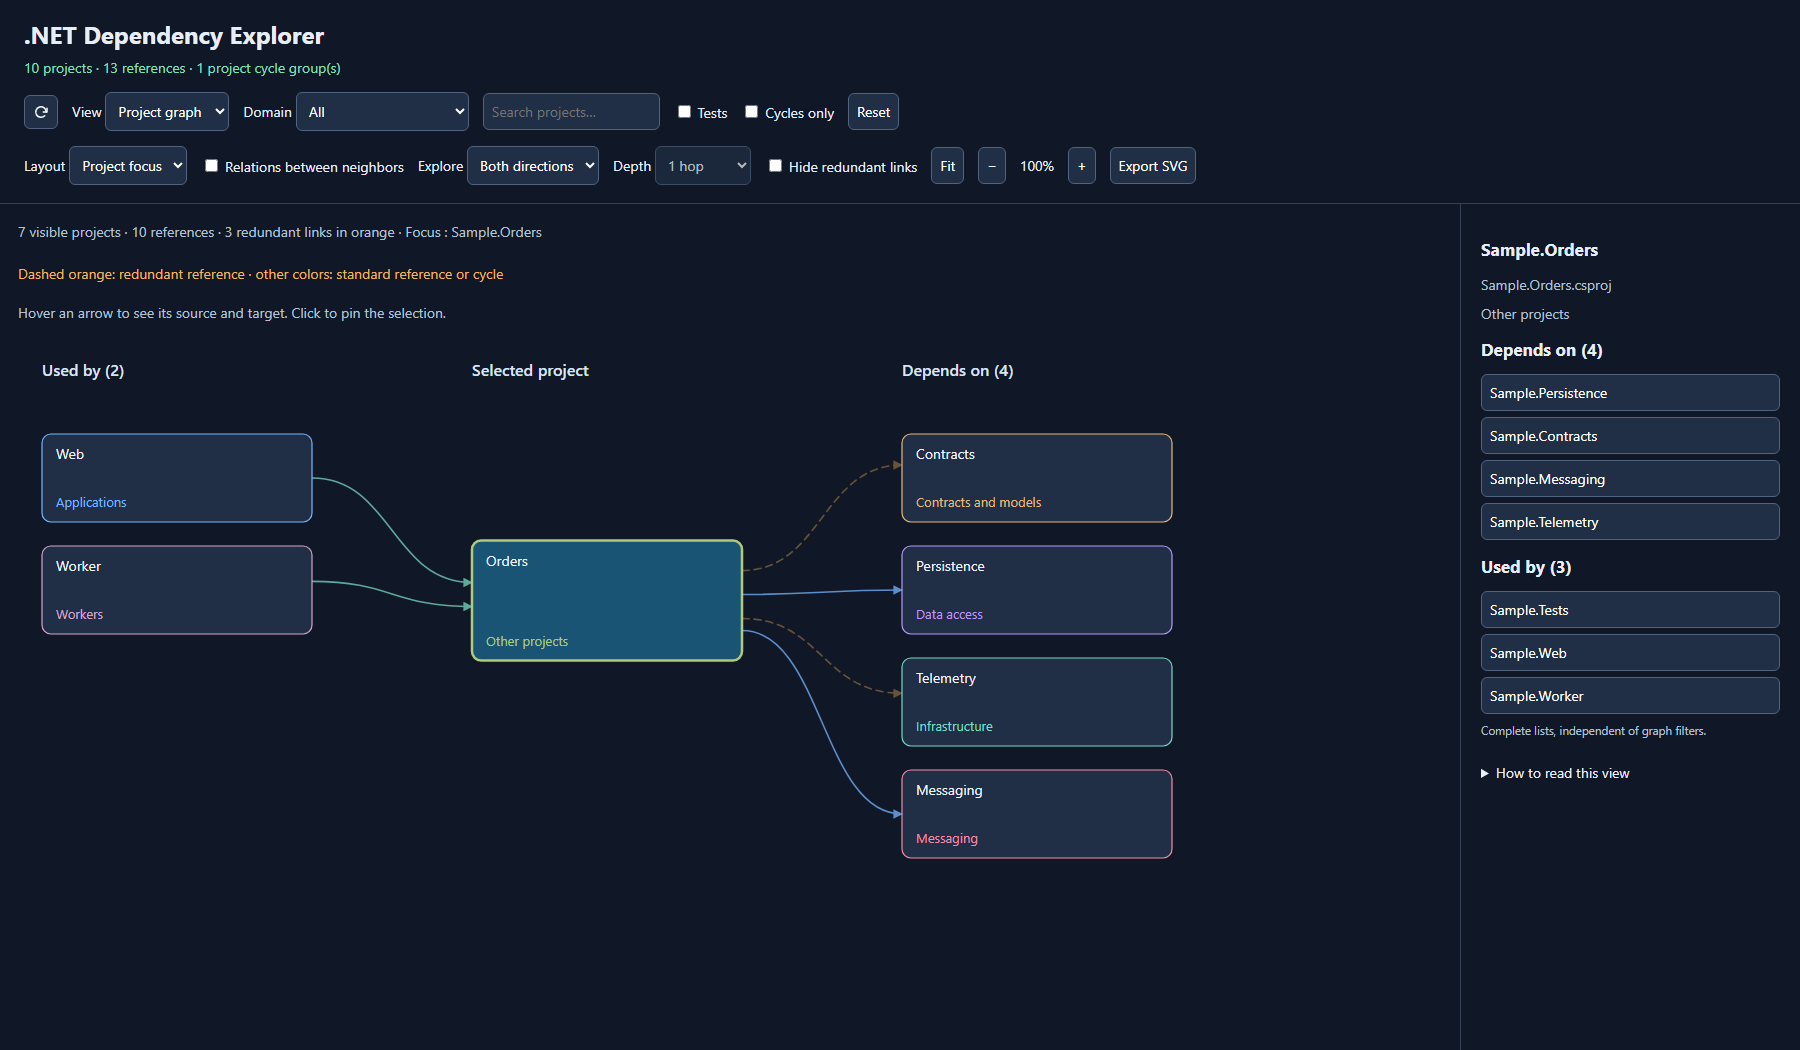
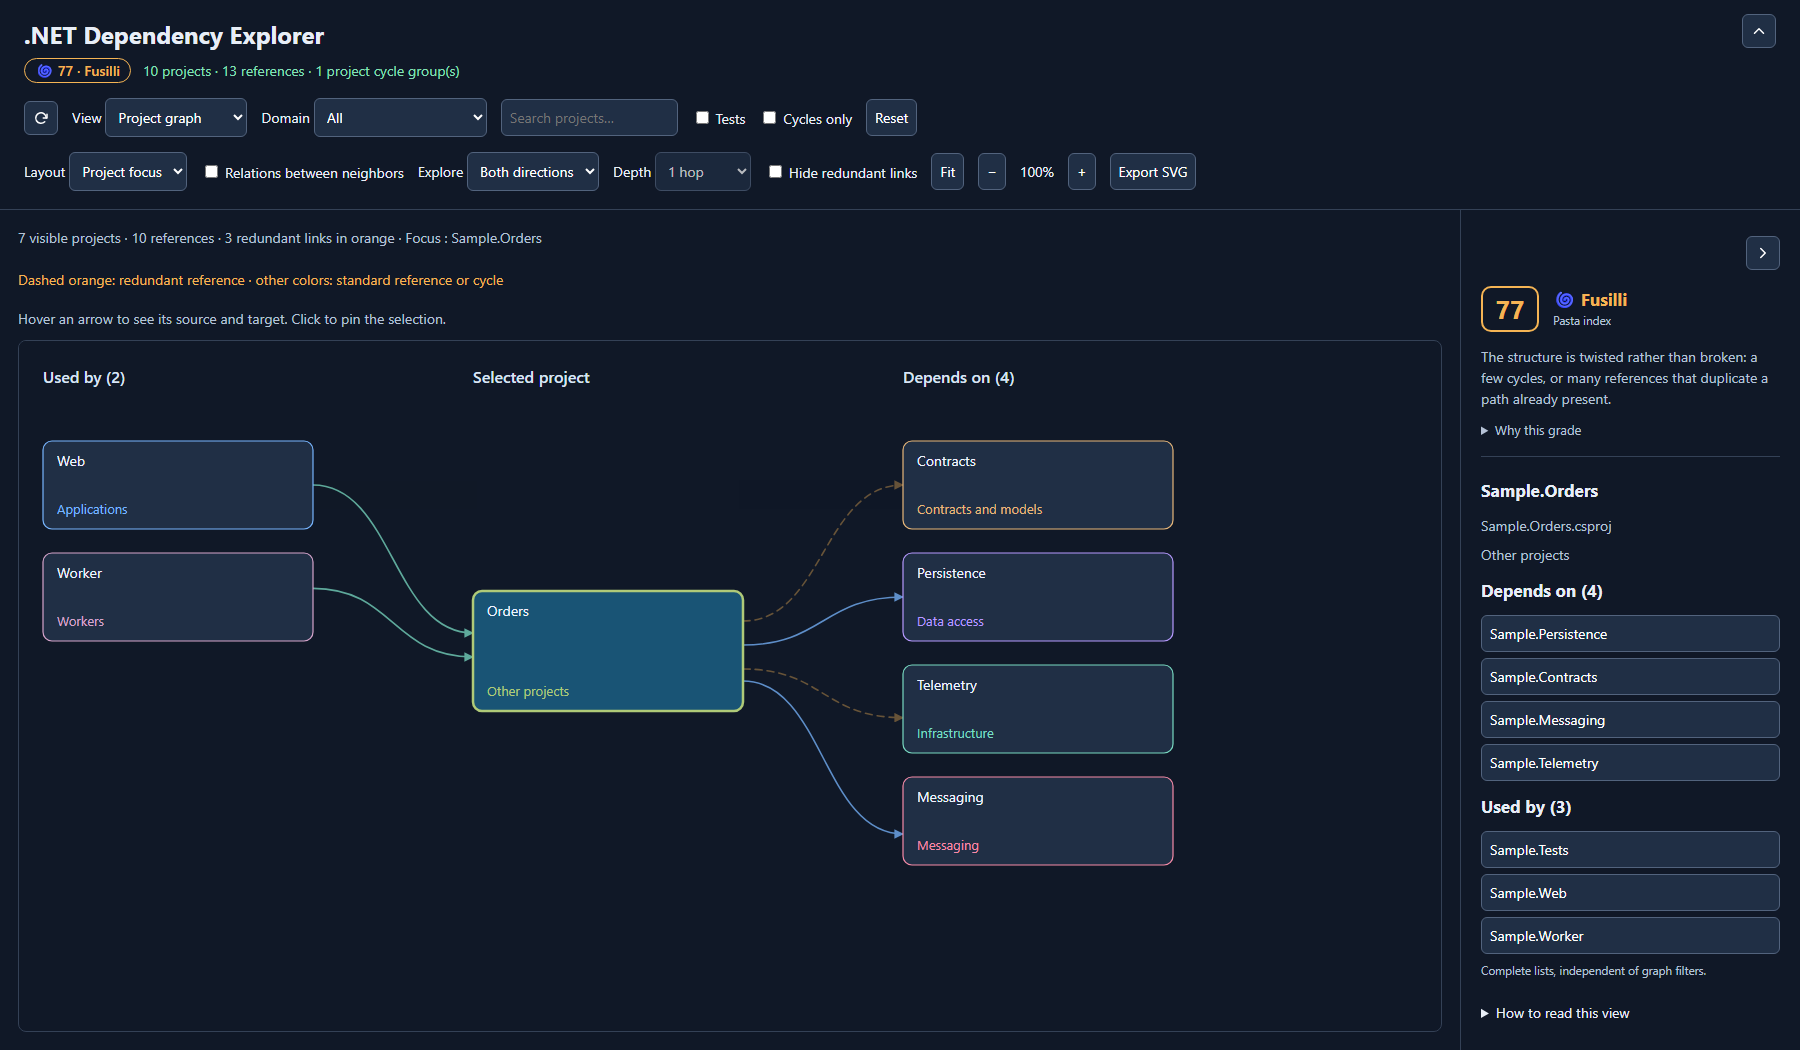
Refresh the listing screenshots, and fix what they exposed
The two screenshots on the listing dated from 0.1.4: no index, no collapsible
panels, no canvas view. They are regenerated from the demo page, which is the
real webview over fictional projects, and two views that had no image at all
get one: the pasta scale and the Cytoscape canvas.

Rendering the side panel at its real width exposed two defects the code review
had missed. The score tile inherited aside button{width:100%} and stretched
across the panel, wrapping its own label. And the index had pushed the project
dependency lists off the bottom of the panel: now that the scale overlay owns
the full breakdown, the panel keeps the score, the shape and one sentence, and
folds the rest behind a summary.

The moves also listed both directions of a two-project cycle as separate
options worth the same points. One cycle group is one decision, so only its
best edge is kept.

diff --git a/media/explorer.js b/media/explorer.js
@@ -17,7 +17,7 @@ style.textContent = `.icon-button{display:inline-flex;align-items:center;justify
 style.textContent+="#canvas:has(#graph){display:flex;flex-direction:column;overflow:hidden;cursor:auto}#content:has(#graph){display:flex;flex-direction:column;flex:1;min-height:0;overflow:hidden}#content:has(#graph)>p,#content:has(#graph)>button{flex-shrink:0}#graphViewport{position:relative;isolation:isolate;contain:paint;overflow:auto;flex:1;min-height:100px;border:1px solid #344156;border-radius:8px;cursor:grab;background:#101827}#graphViewport #graph{position:relative}#edgeInfo{position:static!important;z-index:auto!important} ";
 style.textContent+="#detailsBar{text-align:right;margin-bottom:4px}main.narrow{grid-template-columns:minmax(0,1fr) 44px}main.narrow aside{padding:12px 5px}main.narrow aside>*:not(#detailsBar){display:none}main.narrow #detailsBar{text-align:center;margin:0}#toggleDetails svg{transition:transform .15s;transform:rotate(90deg)}main.narrow #toggleDetails svg{transform:rotate(-90deg)}";
 style.textContent+="#scale{position:fixed;inset:0;z-index:10;display:flex;align-items:flex-start;justify-content:center;padding:36px 20px;overflow:auto;background:rgba(9,14,24,.74)}#scale[hidden]{display:none}#scaleCard{position:relative;width:min(760px,100%);padding:26px 30px 24px;border:1px solid #52637d;border-radius:12px;background:#16233a}#scaleClose{position:absolute;top:13px;right:13px;width:32px;height:32px;padding:0;font-size:17px;line-height:1}#gauge{position:relative;height:8px;margin:18px 0 6px;border-radius:999px;background:#202f45}#gaugeMark{position:absolute;top:-4px;width:4px;height:16px;border-radius:2px;background:currentColor}.rung{display:grid;grid-template-columns:130px 1fr auto;gap:14px;align-items:baseline;padding:9px 10px;border-radius:8px}.rung.current{background:#1d2e47;outline:1px solid var(--color)}.rung b{color:var(--color)}.rung small{color:#b5c2d6;line-height:1.4}.rung .measured{text-align:right}.move{display:grid;grid-template-columns:1fr auto;gap:16px;align-items:baseline;padding:11px 10px;border-top:1px solid #344156}.move strong{display:block}.move small,.move div small{color:#b5c2d6}.gain{color:#83e0b7;font-size:17px;font-weight:700;text-align:right}#scaleCard h2{font-size:12px;margin:22px 0 8px;color:#b5c2d6;text-transform:uppercase;letter-spacing:.05em}";
-style.textContent+="#pastaBadge{display:inline-block;margin-right:12px;padding:2px 10px;border:1px solid;border-radius:999px;font:inherit;font-weight:600;background:none;cursor:pointer}#architecture{margin-bottom:22px;padding-bottom:18px;border-bottom:1px solid #344156}.pasta{display:flex;align-items:center;gap:14px}.pastaScore{min-width:58px;padding:7px 0;border:2px solid;border-radius:10px;text-align:center;font-size:25px;font-weight:700;line-height:1.1;background:none}button.pastaScore{cursor:pointer}.pasta strong{display:block;font-size:17px}.pasta small{color:#b5c2d6}#architecture h2{font-size:12px;margin:17px 0 6px;color:#b5c2d6;text-transform:uppercase;letter-spacing:.05em}#architecture ul{margin:0;padding-left:18px}#architecture li{margin:5px 0;line-height:1.45}#architecture li b{color:#f5b454}#architecture>small{display:block;margin-top:14px;line-height:1.45}";
+style.textContent+="#pastaBadge{display:inline-block;margin-right:12px;padding:2px 10px;border:1px solid;border-radius:999px;font:inherit;font-weight:600;background:none;cursor:pointer}#architecture{margin-bottom:22px;padding-bottom:18px;border-bottom:1px solid #344156}.pasta{display:flex;align-items:center;gap:14px}.pastaScore{flex:none;width:auto;min-width:58px;padding:7px 12px;border:2px solid;border-radius:10px;text-align:center;font-size:25px;font-weight:700;line-height:1.1;background:none}button.pastaScore{cursor:pointer}.pasta div{min-width:0}#whyGrade{margin:12px 0 0}#whyGrade summary{color:#b5c2d6;font-size:13px}.pasta strong{display:block;font-size:17px}.pasta small{color:#b5c2d6}#architecture h2{font-size:12px;margin:17px 0 6px;color:#b5c2d6;text-transform:uppercase;letter-spacing:.05em}#architecture ul{margin:0;padding-left:18px}#architecture li{margin:5px 0;line-height:1.45}#architecture li b{color:#f5b454}#architecture>small{display:block;margin-top:14px;line-height:1.45}";
 style.textContent+="header{position:relative}#toggleControls{position:absolute;top:14px;right:24px}#toggleControls svg{transition:transform .15s}header.collapsed{padding:8px 24px}header.collapsed h1{display:none}header.collapsed #controls{display:none}header.collapsed #status{padding-right:44px}header.collapsed #toggleControls{top:5px}header.collapsed #toggleControls svg{transform:rotate(180deg)}";
 document.head.append(style);
 for (const d of domains) {const o=document.createElement('option');o.value=d;o.textContent=d;$('domain').append(o);}
@@ -94,21 +94,23 @@ function architecture(){
     text('strong',`${m.shape.emoji} ${m.shape.name}`,title).style.color=m.shape.color;
     text('small','Pasta index',title);
     text('p',m.shape.summary,box);
+    const why=text('details','',box);why.id='whyGrade';
+    text('summary','Why this grade',why);
     if(m.drivers.length){
-        text('h2','What costs you points',box);
-        const list=text('ul','',box);
+        text('h2','What costs you points',why);
+        const list=text('ul','',why);
         for(const driver of m.drivers){const item=text('li',driver.label,list);text('b',` −${Math.round(driver.cost)}`,item);}
-    }else if(m.graded)text('p','Nothing measurable is holding the score down.',box);
-    text('h2','Next step',box);text('p',m.shape.advice,box);
+    }else if(m.graded)text('p','Nothing measurable is holding the score down.',why);
+    text('h2','Next step',why);text('p',m.shape.advice,why);
     if(m.graded){
-        text('h2','Shape',box);
-        const facts=text('ul','',box);
+        text('h2','Shape',why);
+        const facts=text('ul','',why);
         text('li',`Propagation cost ${percent(m.propagationCost)}: the share of the solution an average change can reach.`,facts);
         text('li',`${m.depth} dependency layer${m.depth>1?'s':''} deep.`,facts);
         if(m.modular)text('li',`Modularity ${m.modularity.toFixed(2)} against the declared domains: above 0.30 the domains are structural, at or below 0 the references ignore them.`,facts);
         if(m.hub)text('li',`Most referenced: ${m.hub}, used by ${percent(m.hubShare)} of the others.`,facts);
     }
-    text('small',`Graded on ${m.projects} production project${m.projects>1?'s':''} across the whole workspace: test projects and the filters above are excluded. Project references only, so coupling through dependency injection, reflection or a shared database stays invisible.`,box);
+    text('small',`Graded on ${m.projects} production project${m.projects>1?'s':''} across the whole workspace: test projects and the filters above are excluded. Project references only, so coupling through dependency injection, reflection or a shared database stays invisible.`,why);
 }
 function text(tag,value,parent){const e=document.createElement(tag);e.textContent=value;parent.append(e);return e;}
 function svgEl(tag,attrs,parent){const e=document.createElementNS(NS,tag);for(const [k,v] of Object.entries(attrs))e.setAttribute(k,v);parent.append(e);return e;}

diff --git a/src/metrics.ts b/src/metrics.ts
@@ -53,10 +53,16 @@ function priceMoves(data:{nodes:ProjectNode[];edges:Edge[]},base:Architecture,gr
   const moves:Move[]=[];
   const inCycle=data.edges.filter(e=>index.has(e.source)&&index.has(e.target)&&
     group[index.get(e.source)!]===group[index.get(e.target)!]&&cyclic[group[index.get(e.source)!]]);
-  for(const edge of inCycle.slice(0,candidateLimit))
-    moves.push(move(`Invert ${name.get(edge.source)} → ${name.get(edge.target)}`,
+  const bestPerCycle=new Map<number,Move>();
+  for(const edge of inCycle.slice(0,candidateLimit)){
+    const candidate=move(`Invert ${name.get(edge.source)} → ${name.get(edge.target)}`,
       'One reference, through an interface both sides already reach.',
-      data.edges.filter(e=>e!==edge)));
+      data.edges.filter(e=>e!==edge));
+    const cycle=group[index.get(edge.source)!];
+    const best=bestPerCycle.get(cycle);
+    if(!best||candidate.gain>best.gain)bestPerCycle.set(cycle,candidate);
+  }
+  moves.push(...bestPerCycle.values());
   const arcs=feedbackArcs(data,group,cyclic,index);
   if(arcs.length>1)moves.push(move('Break every cycle',
     `${arcs.length} references to invert, across ${base.cycleGroups} group(s).`,

diff --git a/README.md b/README.md
@@ -51,6 +51,8 @@ Three properties cost points, because fixing any of them is unambiguously an imp
 
 Depth, modularity and the most-referenced project describe the shape without costing points, because none of them is a defect on its own.
 
+![The pasta scale: every shape, its rule, and what the graph measures against it](https://raw.githubusercontent.com/yes4it/dotnet-dependency-explorer/main/assets/pasta-scale.png)
+
 **Click the index**, in the header or in the side panel, to open the scale. It lists every shape with the rule behind it and what your graph measures against that rule, so you can see why you landed where you did and what separates you from the next rung. Below it, the moves that would change the grade are priced by recomputing the index on the graph the change would leave behind: breaking a given cycle, inverting every cycle at once, or dropping the redundant references. The figures are results, not projections. Solutions above 400 projects skip the pricing.
 
 | Shape | What it means |
@@ -68,6 +70,8 @@ The index measures coupling **between assemblies**. Two projects with no referen
 ## Cytoscape graph
 
 Choose **Cytoscape graph** in the View menu. Domain, search, tests, cycles, direction, depth and **Hide redundant links** apply exactly as in the project graph; only the renderer changes.
+
+![Cytoscape canvas view with a cycle in red and redundant references dashed in orange](https://raw.githubusercontent.com/yes4it/dotnet-dependency-explorer/main/assets/cytoscape-graph.png)
 
 - Pick a layout: *Levels* follows dependency order, *Force-directed* spreads projects apart, *Breadth-first* starts from the selected project, *Concentric* puts the most referenced projects in the middle, *Circle* and *Grid* are fixed arrangements. Each entry in the menu carries a tooltip describing what it shows, as do the buttons next to it.
 - Drag to pan, scroll to zoom, drag a project to move it. The **- / +** buttons zoom around the middle of the viewport, **Fit** reframes the graph and **Re-run layout** recomputes it.
